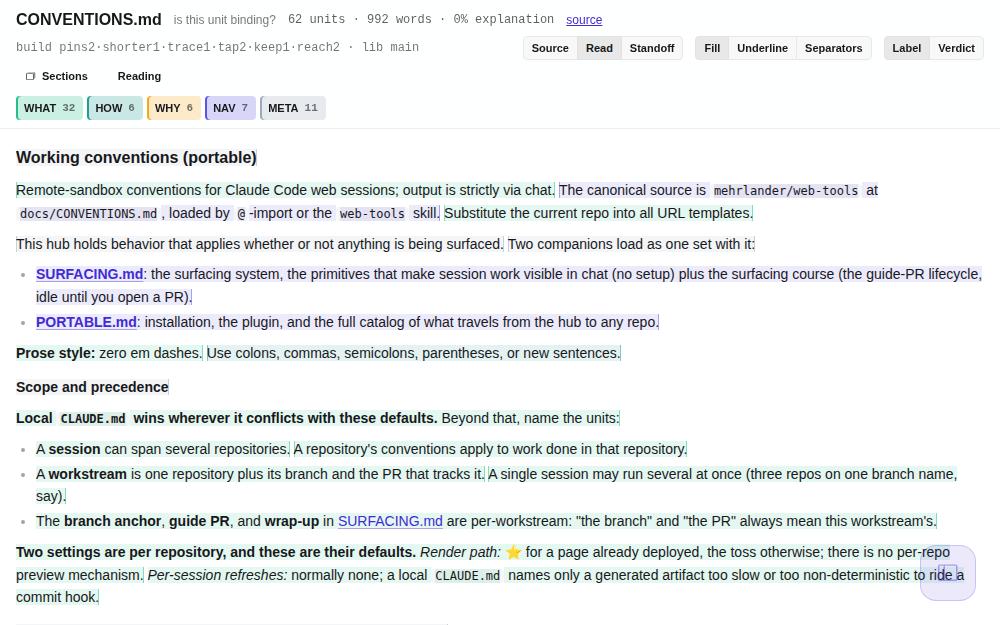
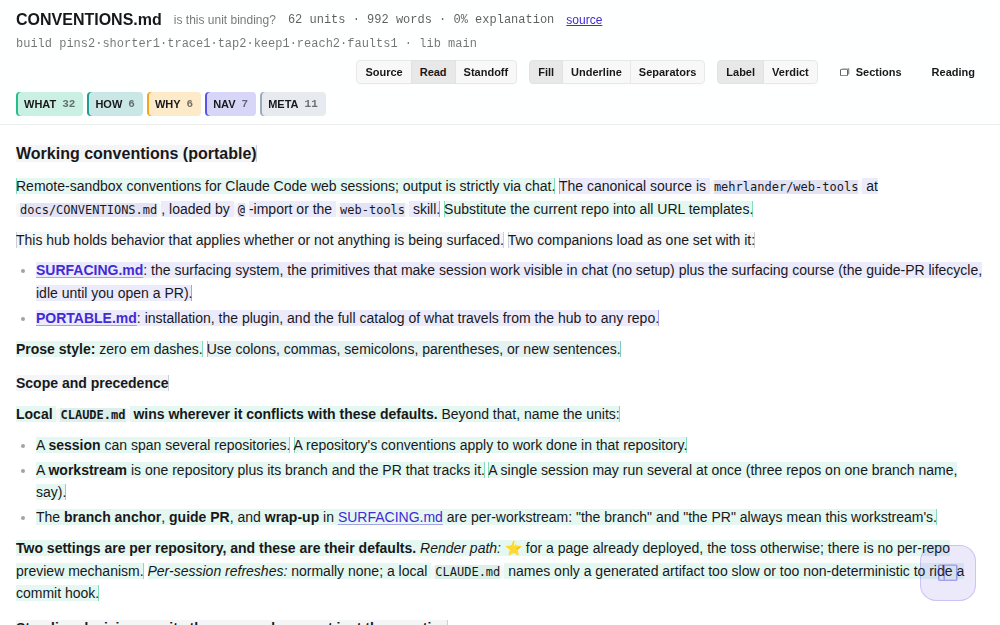
The page reports what it throws, and what failed to load
Six rounds were spent diagnosing symptoms one at a time while the reader's
experience was of a page that is broken. That gap is structural, not a
misunderstanding: this page renders its text from an inline payload through
marked, so a page whose interaction is dead still LOOKS correct, and an
uncaught error left no trace on screen at all.

Two readouts, both silent when there is nothing to say. An error handler
registered before the load chain, so it catches a failure that stops the
component mounting, prints what was thrown. And a check on the kits this page
cannot work without (Standoff, mdDoc, Dictate, marked), each of which arrives
over gh.load and, inside a toss, through the shell's fetch shim: the
arrangement the page is actually read in and the one the sandbox has never been
able to reach.

Verified both ways: silent on a healthy load, and a thrown error appears as
'Uncaught Error: a kit blew up' in the header.

Claude-Session: https://claude.ai/code/session_01KzihRRDhvDjbgPHfbtrniE

Changed region(s): [[0.0, 0.0608, 0.992, 0.5776], [0.0, 0.608, 0.961, 0.9728], [0.899, 0.0608, 0.992, 0.1216]]

diff --git a/pages/audit-render.html b/pages/audit-render.html
@@ -795,6 +795,25 @@ window.__audit = {
     return btoa(bin).replace(/\+/g, '-').replace(/\//g, '_').replace(/=+$/, '');
   };
 
+  // WHAT THE PAGE THROWS, WHERE THE READER CAN SEE IT. Until now an uncaught
+  // error left the document rendered and the controls dead, with nothing on
+  // screen to say so: the text comes from an inline payload and marked, so a
+  // page whose interaction is broken still LOOKS right. Six rounds of reports
+  // were spent on symptoms of that shape, each one diagnosed as if the page
+  // were otherwise well. It may be, and this is how a reader finds out either
+  // way, on the device rather than by handing observations back and forth.
+  //
+  // Registered before the load chain rather than inside the component, since
+  // the failure most worth catching is one that stops the component mounting.
+  window.__auditFaults = [];
+  const fault = (what) => {
+    window.__auditFaults.push(String(what).slice(0, 200));
+    const box = document.getElementById('audit-faults');
+    if (box) box.textContent = window.__auditFaults.join(' · ');
+  };
+  addEventListener('error', (e) => fault(e.message || 'script error'));
+  addEventListener('unhandledrejection', (e) => fault('unhandled: ' + (e.reason?.message || e.reason)));
+
   const snapWord = (text, i) => {
     if (i <= 0 || i >= text.length) return i;
     if (!WORD.test(text[i - 1]) || !WORD.test(text[i])) return i;   // already between words
@@ -972,6 +991,18 @@ window.__audit = {
     // absorbed in its own words. A driver reads `trace` directly, so the
     // evidence survives without the scaffolding.
     say(s) { this.trace.push(s); if (this.trace.length > 8) this.trace.shift(); },
+    // THE KITS THIS PAGE CANNOT WORK WITHOUT, named rather than assumed. Each
+    // one loads over the network through gh.load, and inside a toss that chain
+    // is re-pointed through the shell's fetch shim, which is the arrangement
+    // this page is read in and the one that has never been testable from the
+    // sandbox. A kit that fails to arrive takes its controls with it and
+    // leaves the text rendering perfectly.
+    get missing() {
+      const want = { Standoff: 'boundaries', mdDoc: 'the document render',
+                     Dictate: 'the pins', marked: 'markdown' };
+      const gone = Object.keys(want).filter(k => !window[k]);
+      return gone.length ? `not loaded: ${gone.map(k => `${k} (${want[k]})`).join(', ')}` : '';
+    },
     get build() {
       const has = [
         typeof this.pinUnder === 'function' && 'pins2',   // the nearest-bar pin hit test
@@ -980,6 +1011,7 @@ window.__audit = {
         'tap2',                                           // a click must carry its own tap
         this.push.length > 1 && 'keep1',                  // an edit keeps the reader's subject selected
         typeof this.absorbTo === 'function' && 'reach2',  // a boundary reaches past its pair, both ways
+        Array.isArray(window.__auditFaults) && 'faults1', // the page reports what it throws
       ].filter(Boolean);
       return `build ${has.join('·') || 'base'} · lib ${(this.ref || 'main').slice(0, 7)}`;
     },
@@ -1965,6 +1997,8 @@ window.__audit = {
         <a class="text-xs link link-primary" :href="so.target.url" x-show="so.target.url">source</a>
         <span class="text-xs font-mono opacity-60" x-text="build"
               title="what this page file carries, and the ref its lib came from"></span>
+        <span id="audit-faults" class="text-xs font-mono text-error w-full"></span>
+        <span class="text-xs font-mono text-error w-full" x-text="missing" x-show="missing"></span>
 
         <div class="join ml-auto">
           <button class="join-item btn btn-xs" :class="view==='source' && 'btn-active'"
